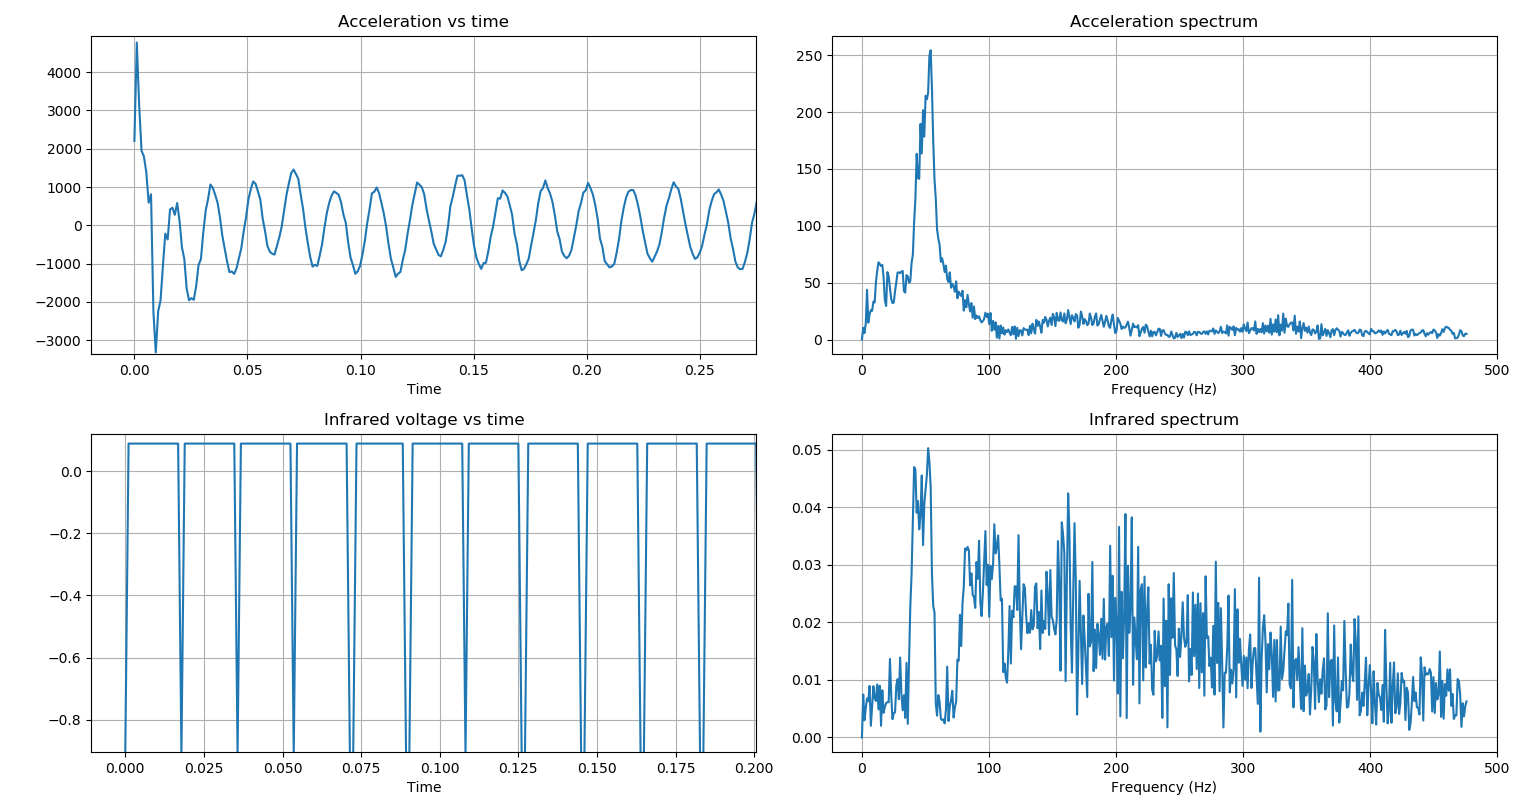
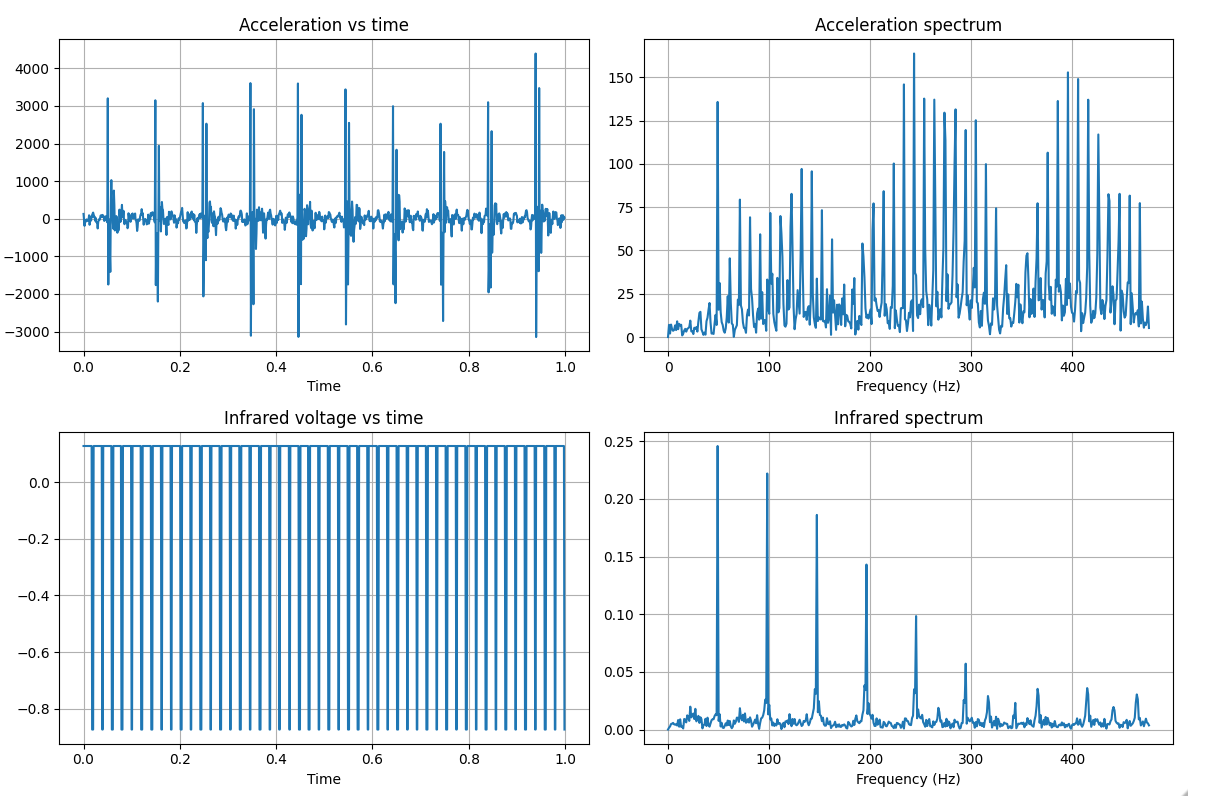
added working example

Changed region(s): [[0.0, 0.0, 0.9818, 0.995], [0.9818, 0.995, 1.0, 1.0]]

diff --git a/src/rotorbalancer/calc.py b/src/rotorbalancer/calc.py
@@ -85,27 +85,24 @@ def fourier_transform(data):
 def rotfreq_and_force(data, verbose=False):
     'retrieves estimated rotation frequency and force'
     xf, A_ir, A_ac = fourier_transform(data)
-    # in the spectrum overtones are visible
-    # the first is selected
 
     def get_first_peak(sign):
-        peaks, _ = find_peaks(sign, height=sign[1:].max()/2)
+        'selects basetone and ignores overtones'
+        peaks, _ = find_peaks(sign,
+                              height=sign[1:data['puls_freq']*10].max()/2)
         if len(peaks) > 0:
             if verbose:
                 print(peaks)
-            return peaks[0]
+            return peaks[0]+1, sign[peaks[0]]
         else:
-            return -1
+            return -1, -1
     results = {}
-    results['freq_ir'] = get_first_peak(A_ir)
-    results['freq_ac'] = get_first_peak(A_ac)
-    freq = results['freq_ir']
-    # detects peak in acceleration on basis of IR
-    # peaks do not occur at exactly the same frequency
-    # therefore they are collected within a range
-    high_idx = round(xf[np.abs(xf-freq-10).argmin()])
-    low_idx = round(xf[np.abs(xf-freq+10).argmin()])
-    results['A'] = A_ac[low_idx: high_idx].max()
+    results['freq_ir'], results['A_ir'] = get_first_peak(A_ir)
+    results['freq_ac'], results['A_ac'] = get_first_peak(A_ac)
+    results['phase'] = crosscorrelate(data,
+                                      20,
+                                      80,
+                                      results['freq_ir'], debug=False)
     return results
 
 
@@ -365,7 +362,9 @@ def crosscorrelate(results, low, high, rotor, debug=False):
     # force the phase shift to be in [-pi:pi]
     recovered_phase_shift = (
         2*np.pi*(((0.5 + recovered_time_shift/(1/freq) % 1.0) - 0.5)))
-    print("Recovered time shift {}".format(recovered_time_shift))
-    print("Recovered phase shift {} radian".format(recovered_phase_shift))
-    print("Recovered phase shift {} degrees"
-          .format(np.degrees(recovered_phase_shift)))
+    if debug:
+        print("Recovered time shift {}".format(recovered_time_shift))
+        print("Recovered phase shift {} radian".format(recovered_phase_shift))
+        print("Recovered phase shift {} degrees"
+              .format(np.degrees(recovered_phase_shift)))
+    return np.degrees(recovered_phase_shift)

diff --git a/nano33ble/src/Nano33_ble.cpp b/nano33ble/src/Nano33_ble.cpp
@@ -50,10 +50,10 @@ void motoron(bool on){
 
 
 void setuppolygon(int frequency) {
-  const int counterclock = 250000; 
+  const int counterclock = 125000;
   // counter top must be between 3..32767
   const uint16_t countertop = counterclock/frequency;
-  const uint16_t dutycycle = countertop/2; 
+  const uint16_t dutycycle = countertop/2;
   buf[0] = {dutycycle};
   // sets up hardware pwm
   //  source https://github.com/andenore/NordicSnippets/blob/master/examples/pwm/main.c
@@ -64,7 +64,7 @@ void setuppolygon(int frequency) {
   // Configure PWM_PIN as output, and set it to 0
   NRF_GPIO->DIRSET = (1 << PWM_PIN);
   NRF_GPIO->OUTCLR = (1 << PWM_PIN);
-  NRF_PWM0->PRESCALER   = PWM_PRESCALER_PRESCALER_DIV_64; // 250kHz clock, see manual
+  NRF_PWM0->PRESCALER   = PWM_PRESCALER_PRESCALER_DIV_128; // 125kHz clock, see manual
   NRF_PWM0->PSEL.OUT[0] = PWM_PIN;
   NRF_PWM0->MODE        = (PWM_MODE_UPDOWN_Up << PWM_MODE_UPDOWN_Pos);
   NRF_PWM0->DECODER     = (PWM_DECODER_LOAD_Common       << PWM_DECODER_LOAD_Pos) | 
@@ -214,12 +214,12 @@ void loop() {
           Serial.setTimeout(1000);
           frequency = Serial.parseInt();
           Serial.println("Set pulse frequency in Hz.");
-          if (frequency>9){
+          if (frequency>4){
             Serial.println("Accepted.");
             setuppolygon(frequency);
             break;
           }
-          else if(0<frequency && frequency<9){
+          else if(0<frequency && frequency<4){
             Serial.println("Invalid, countertop will overflow.");
           }
           // ignore 0, default return value of parseInt

diff --git a/notebooks/trials.py b/notebooks/trials.py
@@ -1,0 +1,42 @@
+# ---
+# jupyter:
+#   jupytext:
+#     text_representation:
+#       extension: .py
+#       format_name: light
+#       format_version: '1.5'
+#       jupytext_version: 1.5.2
+#   kernelspec:
+#     display_name: Python [conda env:dalry]
+#     language: python
+#     name: conda-env-dalry-py
+# ---
+
+# %matplotlib widget
+from rotorbalancer import calc
+
+# Let's look at a plot of the polygon motor with AN44000A chip and an unbalanced 30x30x2 mm square prism.  
+# A clear peak is present at 50 Hertz for both the acceleration and infrared spectrum.
+# The rotor is pulsed at a frequency of 10 Hertz.
+
+dct = calc.read_file('without_weight/100.p')
+calc.plotdata(dct)
+calc.rotfreq_and_force(dct)
+
+# The measurement is stable within 10 percent margin.  
+# The rotor drifts between 50-60 Hertz.  It does not reach the same frequency every time.
+
+from rotorbalancer import tools
+tools.loadfiles('without_weight').describe()
+
+# Adding a balance weight, reduces the amplitude.  
+# The amplitude is not always detected correcly from the accelerometer plot.  
+# This can be seen at the large standard deviation from the frequency plot.
+
+from rotorbalancer import tools
+tools.loadfiles('weight').describe()
+
+# At 5 Hertz, the rotor is more stable.
+
+from rotorbalancer import tools
+tools.loadfiles('weight_5').describe()

diff --git a/src/rotorbalancer/main.py b/src/rotorbalancer/main.py
@@ -91,7 +91,7 @@ def set_frequency(frequency):
     Keyword arguments:
     frequency -- frequency of the oscillitor in Hz
     '''
-    if frequency < 10:
+    if frequency < 5:
         raise Exception("Out of range, change clock divider in firmware")
     ser = getserial()
     test_received('Press 5 to set pulse frequency.')
@@ -159,10 +159,7 @@ def main(frequency=20, plot=False, upload=False):
                'sample_freq': sample_frequency}
     test_received('Measurement completed')
     sleep(1)
-    try:
-        calc.getdetails(results, flt=False, verbose=True, arithmic=True)
-    except ValueError:
-        print("IR seems not properly triggered and overexposed.")
+    print(calc.rotfreq_and_force(results))
     if plot:
         calc.plotdata(results)
     return results

diff --git a/src/rotorbalancer/tools.py b/src/rotorbalancer/tools.py
@@ -23,8 +23,11 @@ def runtest(starthz, endhz, stephz, foldername, repeat=1):
         print(f"measuring {f} Hz")
         for i in range(0, repeat):
             print(f"Cycle {i}")
+            folder_name = Path(root_folder, foldername)
+            if not os.path.exists(folder_name):
+                os.makedirs(folder_name)
             res = main.main(frequency=f)
-            filename = Path(root_folder, foldername, str(f)+str(i)+'.p')
+            filename = Path(folder_name, str(f)+str(i)+'.p')
             pickle.dump(res, open(filename, 'wb'))
 
 

diff --git a/README.md b/README.md
@@ -5,8 +5,8 @@ The Nano 33 BLE pulses the motor via hardware pwm and records the accelerometer 
 During rotation the signal of a [TCRT5000 IR LED](https://opencircuit.nl/Product/TCRT5000-Infrarood-lijn-detectie-module) is read out to detect the position of the rotor.
 The amplitude of the accelerometer signal is proportional to the unbalanced mass. The phase difference between the infrared LED and the accelerometer indicates the position where a balance weight, aka. putty, has to be placed.
 In the case of two plane unbalance, the phase difference between the IR Led and the accelerometer can be dependent upon rotor speed.  
-So far, I have only used the single-plane 2 run method to balance the rotor. Multi-plane balancing is not implemented.
-<img src="images/setup.jpg" align="center" width =60%/>
+So far, I have only used the single-plane 2 run method to balance the rotor. Multi-plane balancing is not implemented.  
+<img src="images/setup.jpg" align="center" width =30%/>
 
 # Installation
 Compile the firmware with Platform IO, a plugin for VSCode, and upload it to the Arduino Nano 33 BLE.
@@ -36,31 +36,23 @@ Example measurements can found in the measurements folder.
 
 # Video
 I made a video of the setup for a better impression.  
-[<img src="https://img.youtube.com/vi/xFNtZbOfEfQ/maxresdefault.jpg" width="50%">](https://youtu.be/xFNtZbOfEfQ)
-
-# TODO:
-Substract the measuremens from an unbalanced prism from a balanced prism.
-This might make the results more intuitive.
+[<img src="https://img.youtube.com/vi/xFNtZbOfEfQ/maxresdefault.jpg" width="30%">](https://youtu.be/xFNtZbOfEfQ)
 
 
 # Measurements
-<img src="images/singleresult.png" align="center" width =100%/><br>
-For each measurement, the rotor was pulsed at a certain frequency for 20 seconds.
-The motor was then turned off and the acceleration and infrared signal were measured for 1 second.
-This was done as the the motor interfered with the measurements. Turning the motor of resulted in cleaner results.  
+<img src="images/singleresult.png" align="center" width =60%/><br>
+For each measurement, the rotor is pulsed at a certain frequency for 20 seconds to spin it up.
+The motor is kept on and the acceleration and infrared signal are measured for 1 second.
 Sampling is equidistant at 952 Hertz as this was the maximum sampling frequency of the accelerometer.
-From the measurements it can be seen that the rotor slows down.
-The [centripetal force](https://en.wikipedia.org/wiki/Centripetal_force) is linear proportional to mass.
-In single plane balancing it is assumed that the angle of the force is not dependent upon speed. The phase-difference between the ir sensor and the acceloremeter determines the location where putty needs to be applied. The phase difference and amplitude were determined via the getdetails function in [calc.py](calc.py). The minimum and maximum is determined for each cycle. The phase difference between these must be 180 degrees for the measurement to be accurate. The location of the minimum will be the location of the balance weight.  
-<img src="images/results.png" align="center" width =100%/>  
-The force follows a square law between 40-60 Hertz but not over the whole domain. This could be partly due to 
-the fact that the rotor slows down. Other things must play a role as well as there is a noticable change around 78 hertz in both the force and phase plot. The spinning disk probably creates current in the motor which is turned off.  
-The phase angle between the minimum amplitude of the accelerometer and the peak of the photodiode is dependent upon speed.
-This could be due to multiple plane unbalance but is hard to say due to the electric field. Imagine multiple disks with each their own unbalance. 
-Their moment is dependent upon the distance to a pivot point which is different and the force scales squarily with speed. As a result, the angle of the force measured can be dependent upon speed.  
-The measurements were done on a prism for which some balancing was already done. A balance weight of 0.060 gram [Weicon resin putty](https://www.weicon.de/en/products/adhesives-and-sealants/2-component-adhesives-and-sealants/epoxy-resin-systems/plastic-metal/298/epoxy-resin-putty) was applied. I used an AG204 Delta range from Mettler to measure the weight of the putty accurately. As a lower cost alternative, pieces of aluminium tape could be used. A small piece of aluminum tape was applied to trigger the IR Led sensor.  
+In single plane balancing it is assumed that the angle of the force is not dependent upon speed.
+The phase-difference between the ir sensor and the acceloremeter determines the location where putty needs to be applied. 
+The frequency and amplitude are determined via a Fourier transform. Using a peak detection algorithm, the first peak is selected.
+Results are repeatable and standard deviation is in the range of 10-3 percent. Results are shown in the notebook folder. 
+A balance weight of 0.060 gram [Weicon resin putty](https://www.weicon.de/en/products/adhesives-and-sealants/2-component-adhesives-and-sealants/epoxy-resin-systems/plastic-metal/298/epoxy-resin-putty) is applied. I used an AG204 Delta range from Mettler to measure the weight of the putty accurately.
+As a lower cost alternative, pieces of aluminium tape could be used, as there is a direct relation between mass and surface area.
+A small piece of aluminum tape is applied to trigger the IR Led sensor.  
 Futher literature can be found in [Science direct](https://www.sciencedirect.com/science/article/pii/S2351988616300185) and at the site of [National Instruments](https://forums.ni.com/t5/Example-Programs/Two-Plane-Balancing-Example-with-DAQmx/ta-p/3996066?profile.language=en).
-The measurements are available in the measurements folder. The code for the analysis is available in [test.py](test.py).
+The measurements are available in the measurements folder. 
 
 
 # Implementation details
